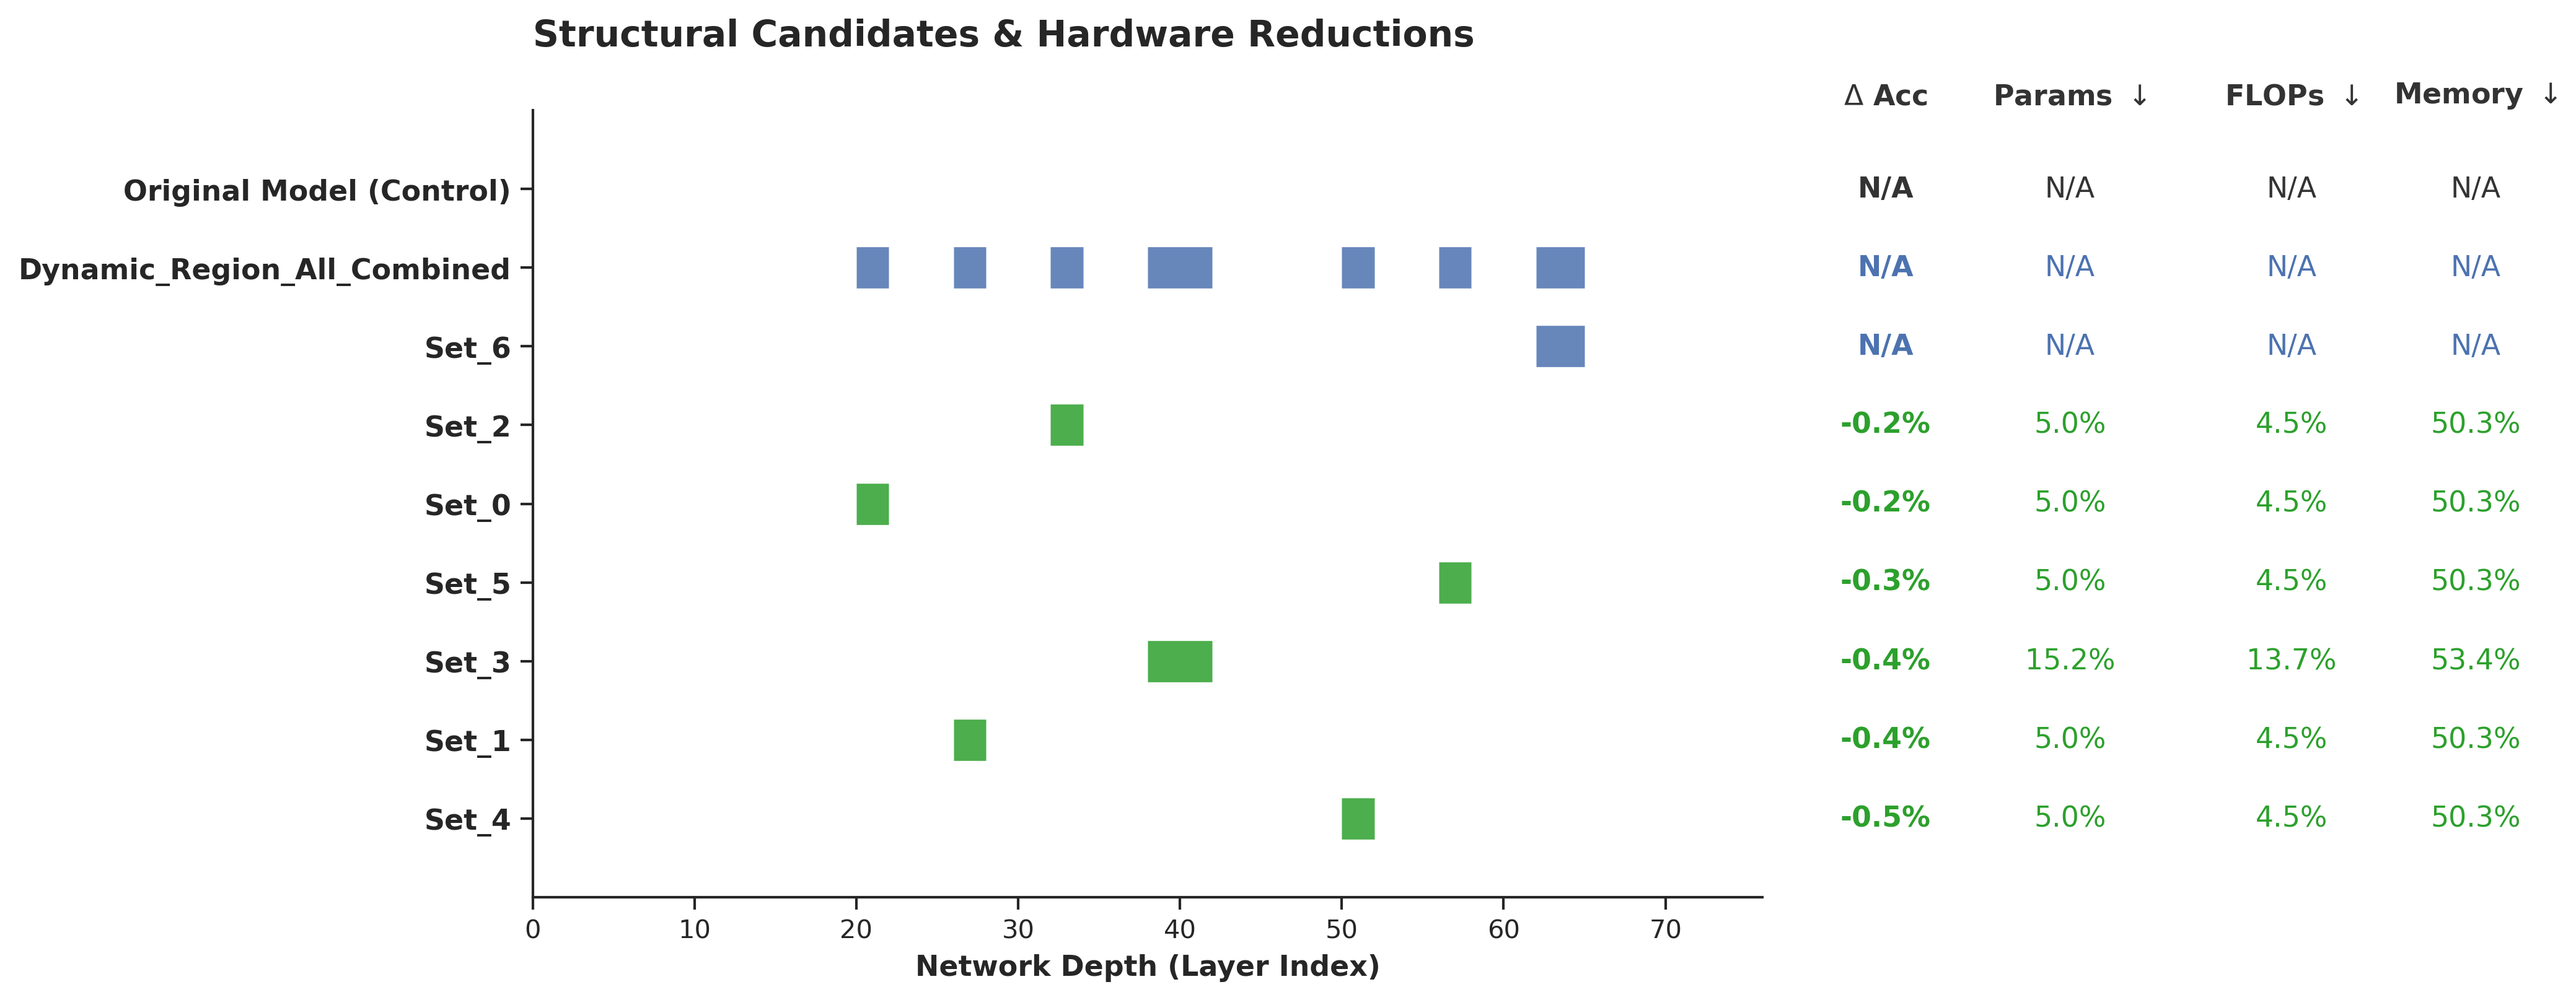
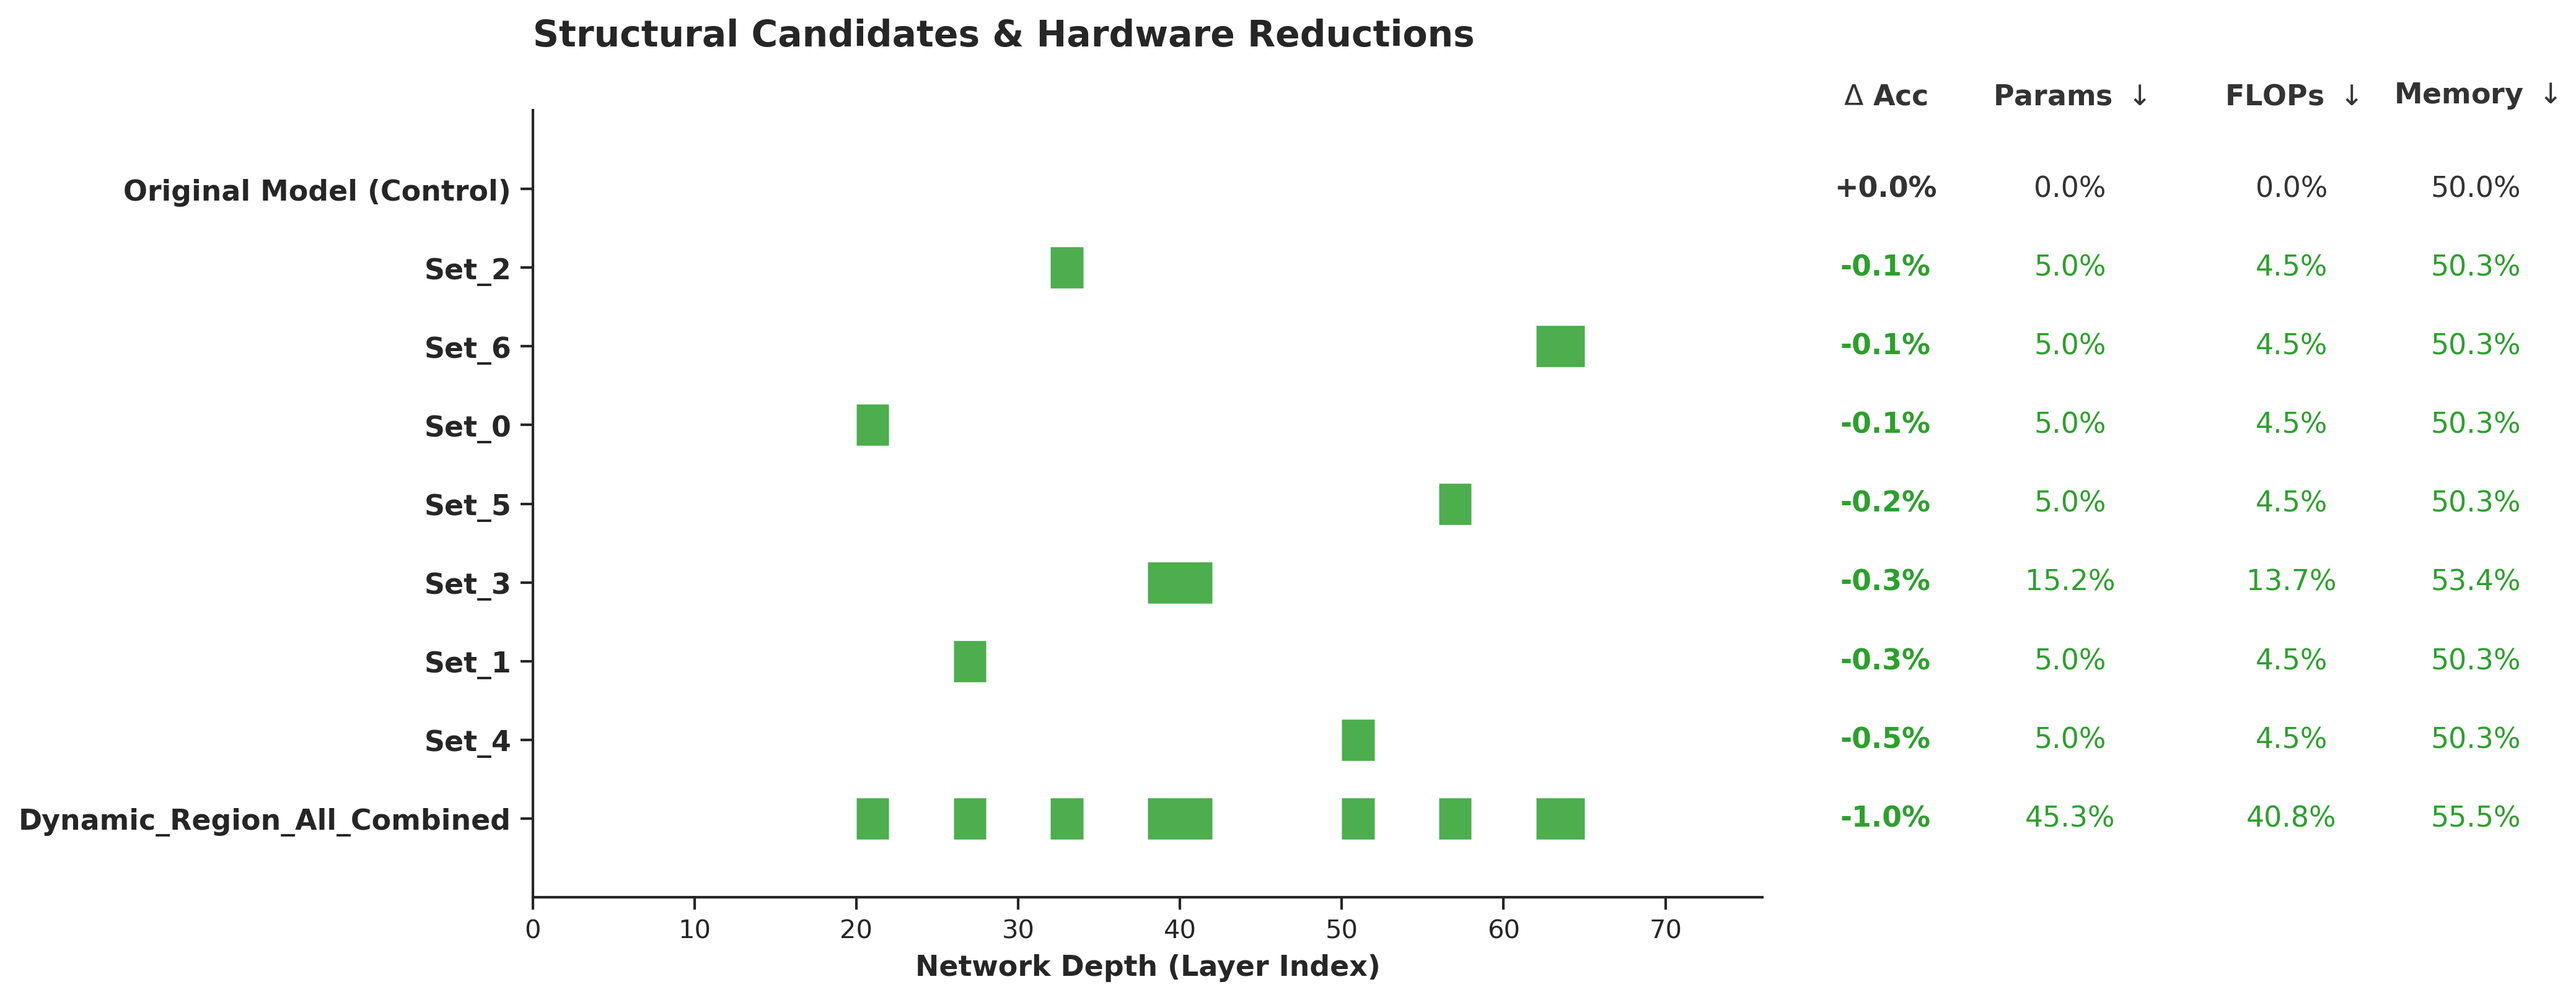
update

diff --git a/manuscript/Tranfer/figures/hardware_efficiency/RegNetX_400MF_tinyimagenet_all_candidates.tex b/manuscript/Tranfer/figures/hardware_efficiency/RegNetX_400MF_tinyimagenet_all_candidates.tex
@@ -4,13 +4,17 @@ Candidate Block & Delta Acc (%) & Params Red. (%) & FLOPs Red. (%) & Memory Red.
 \midrule
 Set_2 & 1.58 & 0.48 & 1.11 & 7.00 \\
 Set_14 & 0.62 & 1.14 & 0.67 & 7.00 \\
+Set_10 & 0.21 & 1.14 & 0.67 & 7.00 \\
 Set_12 & -0.50 & 1.14 & 0.67 & 7.00 \\
 Set_3 & -0.59 & 0.48 & 1.11 & 7.00 \\
 Set_0 & -1.26 & 0.48 & 1.11 & 7.00 \\
 Set_13 & -1.51 & 1.14 & 0.67 & 7.00 \\
 Set_7 & -1.80 & 1.14 & 0.67 & 7.00 \\
+Set_5 & -2.37 & 1.14 & 0.67 & 7.00 \\
+Set_11 & -2.59 & 1.14 & 0.67 & 7.00 \\
 Set_6 & -2.82 & 1.14 & 0.67 & 7.00 \\
 Set_15 & -2.93 & 1.14 & 0.67 & 7.00 \\
+Set_9 & -3.45 & 1.14 & 0.67 & 7.00 \\
 Set_1 & -3.58 & 0.48 & 1.11 & 7.00 \\
 Dynamic_Region_All_Combined & -4.04 & 14.92 & 12.86 & 7.00 \\
 Set_4 & -7.20 & 0.48 & 1.11 & 7.00 \\

diff --git a/manuscript/Tranfer/figures/hardware_efficiency/XceptionNet_tinyimagenet_all_candidates.tex b/manuscript/Tranfer/figures/hardware_efficiency/XceptionNet_tinyimagenet_all_candidates.tex
@@ -1,0 +1,14 @@
+\begin{tabular}{lrrrr}
+\toprule
+Candidate Block & Delta Acc (%) & Params Red. (%) & FLOPs Red. (%) & Memory Red. (%) \\
+\midrule
+Set_2 & 0.31 & 5.03 & 4.52 & 0.69 \\
+Set_1 & 0.16 & 5.03 & 4.52 & 0.69 \\
+Set_3 & 0.16 & 15.18 & 13.65 & 6.87 \\
+Set_5 & -0.02 & 5.03 & 4.52 & 0.69 \\
+Set_6 & -0.08 & 5.03 & 4.52 & 0.69 \\
+Set_4 & -0.24 & 5.03 & 4.52 & 0.69 \\
+Set_0 & -1.08 & 5.03 & 4.52 & 0.69 \\
+Dynamic_Region_All_Combined & -1.29 & 45.34 & 40.77 & 11.00 \\
+\bottomrule
+\end{tabular}
